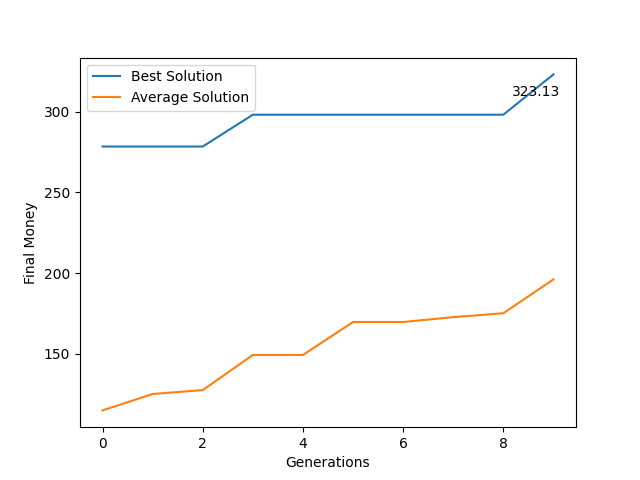
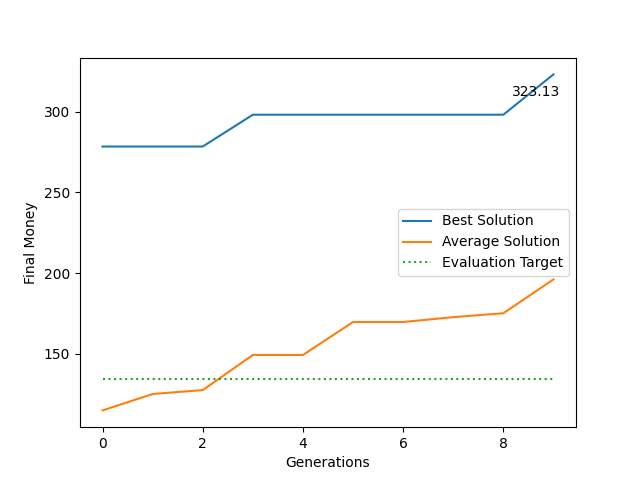
changes

diff --git a/results.py b/results.py
@@ -13,7 +13,8 @@ def plotResults(results,hyperparams):
     name = HypertoString(hyperparams)
     plt.plot(range(len(results[1])),results[1])
     plt.plot(range(len(results[2])),results[2])
-    plt.legend(("Best Solution", "Average Solution"))
+    plt.plot(range(len(results[1])), [bot.trade([1,20,2,2], hyperparams[0])]*len(results[1]), linestyle='dotted')
+    plt.legend(("Best Solution", "Average Solution", "Evaluation Target"))
     plt.figtext(0.8,0.8,"{:.2f}".format(results[1][-1]))
     plt.xlabel("Generations")
     plt.ylabel("Final Money")
@@ -49,6 +50,12 @@ def hyperList(finals, param):
         
     return values
             
+def evalScores(res):
+    for key in res:
+        val = bot.evaluate(res[key][1][-1], int(key.split(",")[0]))
+        eva.append(val)
+    return eva
+
 def loadResults(filename='all_final_results.txt'):
     f = open(filename)
     r = f.read()
@@ -58,7 +65,7 @@ def loadResults(filename='all_final_results.txt'):
     return d
 
 buyLimits = [10,30,90,150,360,720]
-popSize = 10
+popSize = 5
 recombinationValues = [0.2,0.3,0.4,0.5,0.6,0.7,0.8]
 mutationValues = [0.2,0.3,0.4,0.5,0.6,0.7,0.8]
 gen = 10

diff --git a/bot.py b/bot.py
@@ -13,7 +13,7 @@ exchange = ccxt.kraken()
 bitcoin_data = exchange.fetch_ohlcv('BTC/AUD', timeframe='1d', limit=720)
 
 # split ratio in range (0,1]. default = 0.8 (80% training, 20% testing). Set to 1 to test the whole 2 year period against etherium
-split_ratio = 1
+split_ratio = 0.8
 test_at_start = False  # Should test data be start or end of 2-year period?
 
 split = round(split_ratio*720)
